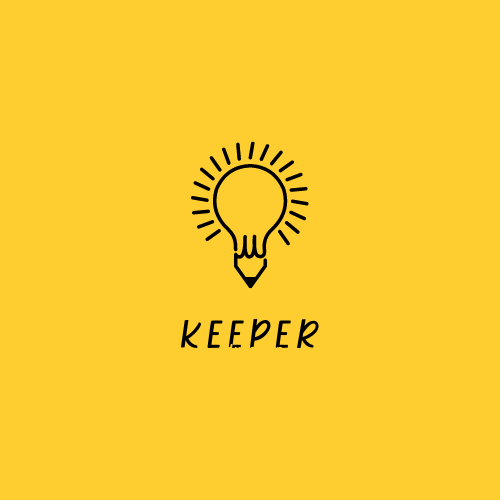
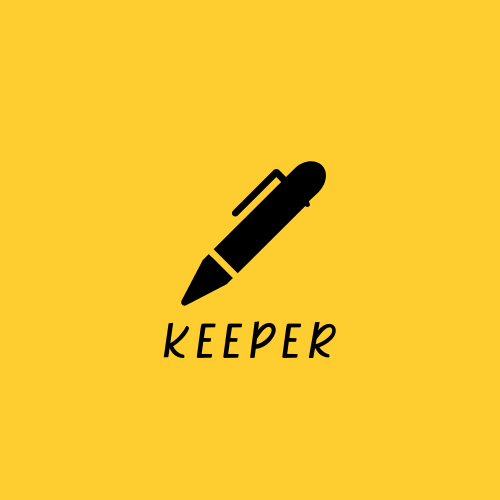
Initial Commit

Changed region(s): [[0.33, 0.27, 0.69, 0.72]]

diff --git a/keeper/src/Components/Header.jsx b/keeper/src/Components/Header.jsx
@@ -3,9 +3,12 @@ import '../App.css';
 
 function Header(){
     return (
-        <nav class="navbar fixed-top bg-custom">
-            <div class="container-fluid text-color">
-            <h2 class="navbar-brand navbar-center">Keeper</h2>
+        <nav className="navbar fixed-top bg-custom">
+            <div className="container-fluid">
+            <h2 className="navbar-brand navbar-allign text-color">
+                <svg xmlns="http://www.w3.org/2000/svg" width="26" height="26" fill="currentColor" class="bi bi-pen" viewBox="0 0 16 16">
+                    <path d="m13.498.795.149-.149a1.207 1.207 0 1 1 1.707 1.708l-.149.148a1.5 1.5 0 0 1-.059 2.059L4.854 14.854a.5.5 0 0 1-.233.131l-4 1a.5.5 0 0 1-.606-.606l1-4a.5.5 0 0 1 .131-.232l9.642-9.642a.5.5 0 0 0-.642.056L6.854 4.854a.5.5 0 1 1-.708-.708L9.44.854A1.5 1.5 0 0 1 11.5.796a1.5 1.5 0 0 1 1.998-.001zm-.644.766a.5.5 0 0 0-.707 0L1.95 11.756l-.764 3.057 3.057-.764L14.44 3.854a.5.5 0 0 0 0-.708l-1.585-1.585z"/>
+                </svg>&nbsp;Keeper</h2>
         </div>
     </nav>
     );

diff --git a/keeper/src/Components/Notes.jsx b/keeper/src/Components/Notes.jsx
@@ -2,22 +2,12 @@ import React from "react";
 import '../App.css';
 
 function Notes(){
-
-    const date = new Date();
-    const day = date.getDay()
-    const month = date.getMonth()
-    const year = date.getFullYear()
     return (
-        <div class="card">
-        <div class="card-header">
-        Title
-        </div>
-        <div class="card-body">
-        <blockquote class="blockquote mb-0">
-            <p>A well-known quote, contained in a blockquote element.</p>
-            <footer class="blockquote-footer">{day}/{month}/{year}</footer>
-        </blockquote>
-        </div>
+        <div className="card">
+            <div className="card-body">
+                <h5 className="card-title">Card title</h5>
+                <p className="card-text">Some quick example text to build on the card title and make up the bulk of the card's content.</p>
+            </div>
         </div>
     );
 }

diff --git a/keeper/src/App.css b/keeper/src/App.css
@@ -43,21 +43,36 @@
   word-wrap: break-word;
 } */
 
-.navbar-center {
-  position: relative;
-  left: 50%;
-  transform: translatex(-50%);
+.navbar-allign {
+  transform: translatex(10%);
+  font-size: 30px;
 }
 
 .bg-custom{
-  background-color: #fcc40d;
-  box-shadow: 0px 0px 15px 0px black;
+  background-color: #ffcd2a;
+  box-shadow: 0px 0px 5px 0px black;
 }
 
 .text-color{
   color: white;
+  font-family: cursive;
 }
 
 .footer{
   text-align: center;
+}
+
+.card{
+  margin-top:8%;
+  width: 18rem;
+}
+
+.card-title{
+  font-size: larger;
+  font-weight: 600;
+  font-style: italic;
+}
+
+.blockquote{
+  font-size: medium;
 }
